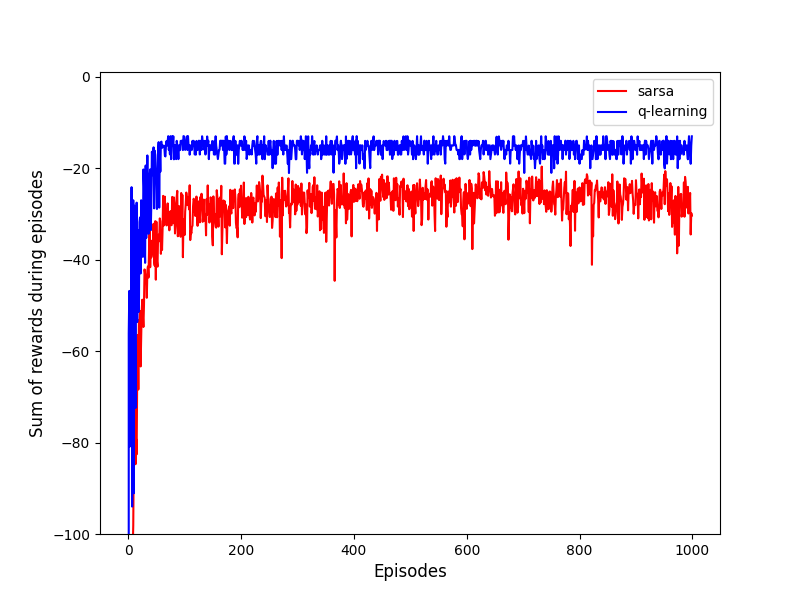
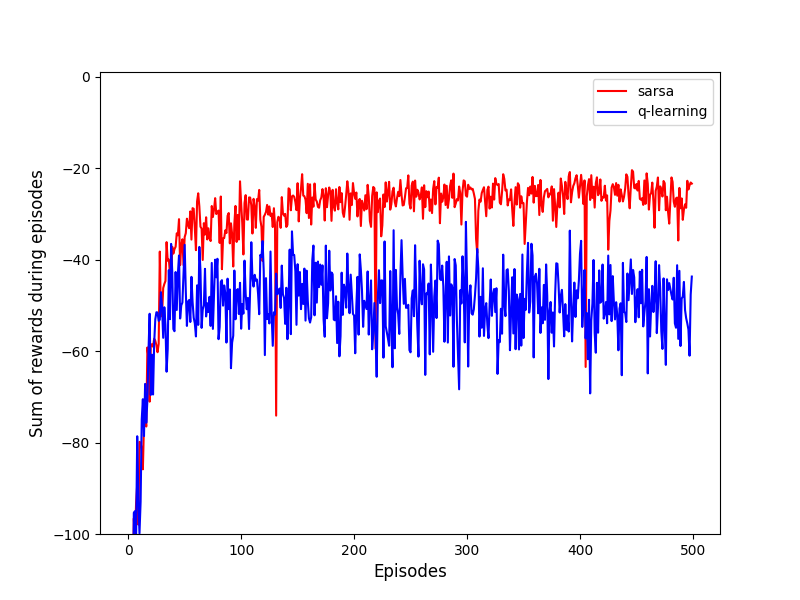
Fix controller prediction loop

diff --git a/chapter6/controller.py b/chapter6/controller.py
@@ -69,11 +69,11 @@ class SARSAController(DiscreteController):
             reward = 0
 
             current_state = self.env.state
-            action, _ = policy(current_state)
 
             trajectory = Trajectory()
             sum_reward = 0
             while not done and (max_iters is None or total_iters < max_iters):
+                action, _ = policy(current_state)
                 trajectory.add_step(done, current_state, reward, action)
                 done, new_state, reward = self.env.step(action)
                 sum_reward += reward
@@ -94,7 +94,6 @@ class SARSAController(DiscreteController):
                         reward,
                     )
                 current_state = new_state
-                action = next_action
             trajectory.add_step(done, current_state, reward, None)
 
         return history

diff --git a/chapter6/main.py b/chapter6/main.py
@@ -280,10 +280,10 @@ def example_6_6(figsize=(8, 6)):
     target_policy = GreedyPolicy
 
     sarsa_sum_rewards = _parallel_evaluation(
-        _predict, 100, controller, policy, None, 1000, 0.5
+        _predict, 100, controller, policy, None, 500, 0.5
     )
     q_learning_sum_rewards = _parallel_evaluation(
-        _predict, 100, controller, policy, target_policy, 1000, 0.5
+        _predict, 100, controller, policy, target_policy, 500, 0.5
     )
 
     # Plot
